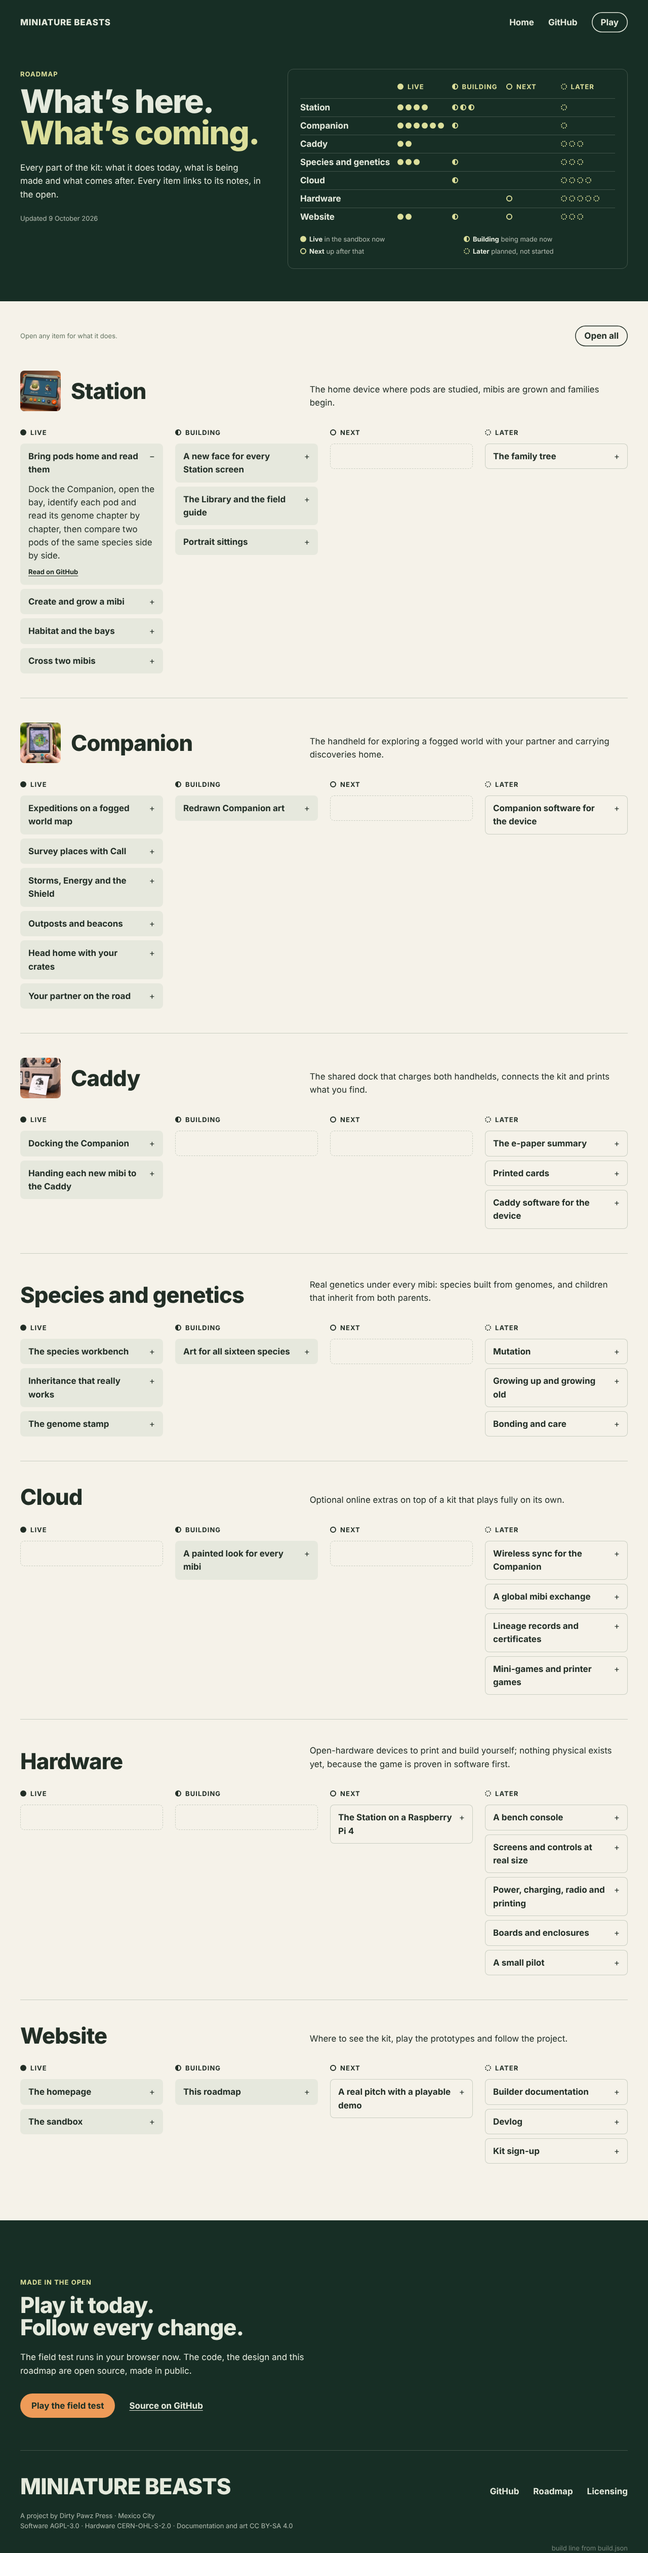
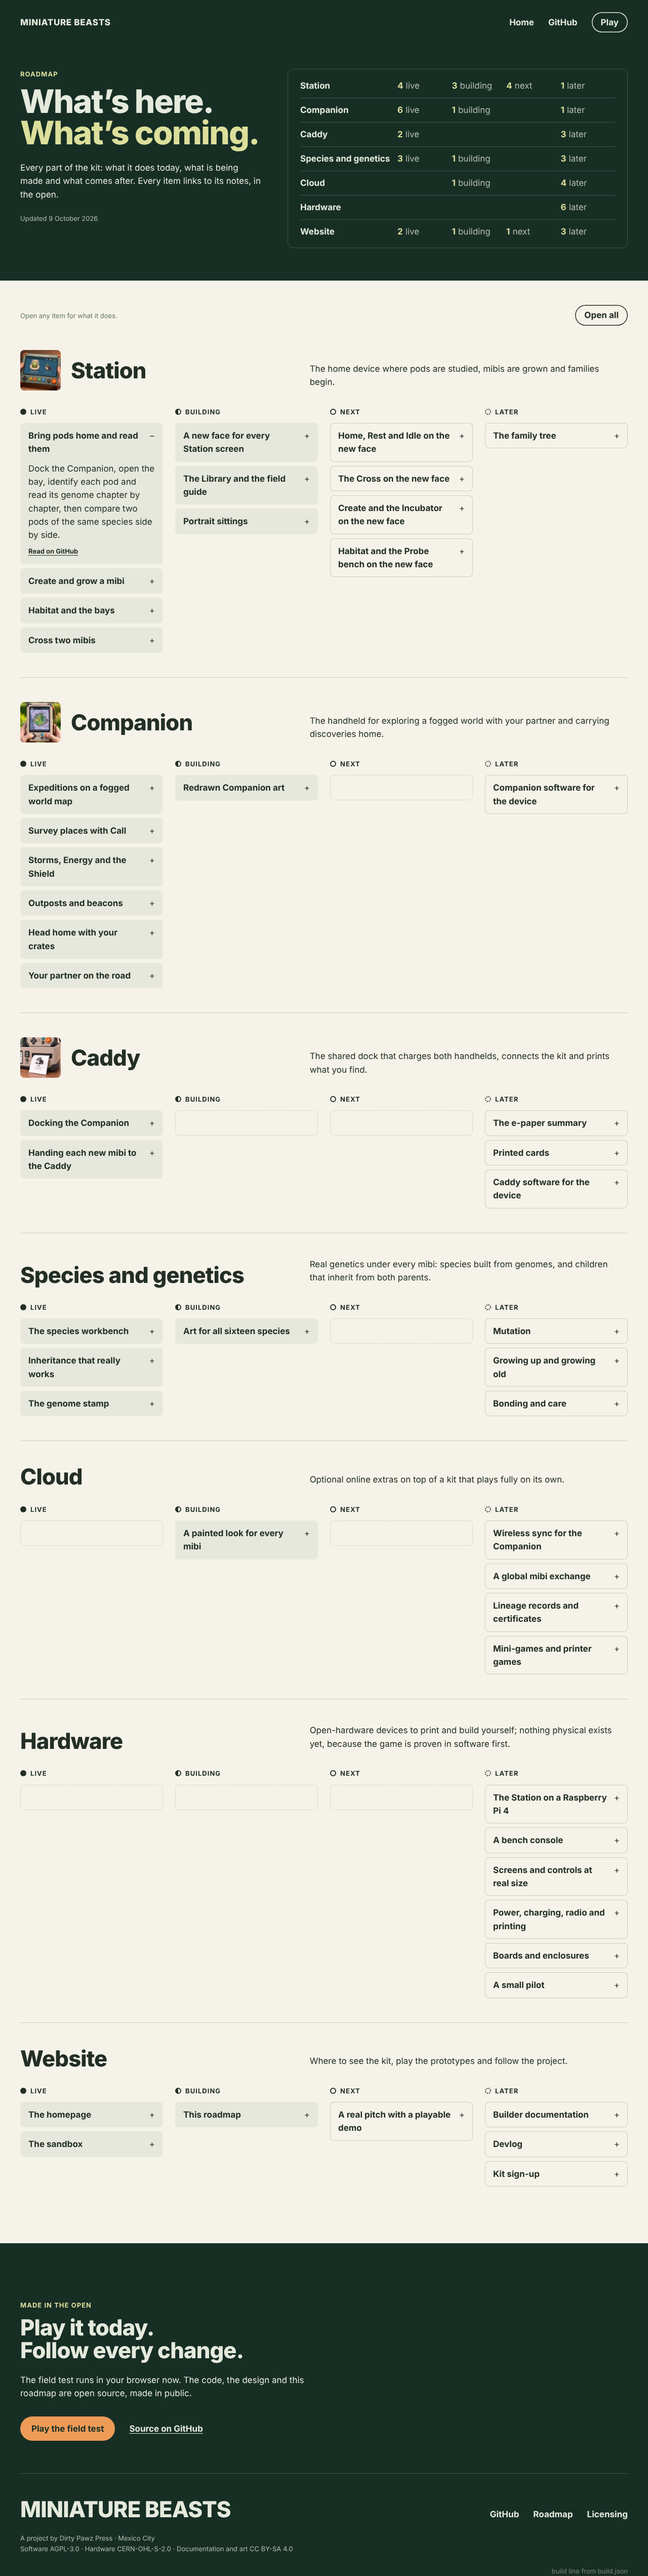
Roadmap page: the glance says each count and its stage in words ("4 live") with no dots and no legend, the Station's Next lane filled from the LVGL plan (Home, Rest and Idle; the Cross; Create and the Incubator; Habitat and the Probe bench), the Pi item moved to Later, wireframes re-rendered at 1x

diff --git a/design/proposals/roadmap-page.md b/design/proposals/roadmap-page.md
@@ -1,6 +1,10 @@
 # Roadmap page: layout spec
 
-**Proposal**, 2026-10-09 12:37 (Mexico City), UI/UX designer. For a new public page
+**Proposal**, 2026-10-09 12:37 (Mexico City), UI/UX designer. **Revised**
+2026-10-09 13:08: the owner passed the structure ("the roadmap is ok") and
+failed the summary table ("i do not know what each circle in each row
+means"); the glance is redesigned to read with no key (§4, The glance), and the
+Station's Next lane is filled from `lvgl-switch.md` §3. For a new public page
 at `website/roadmap/index.html`, served at `/roadmap/`. It renders from
 `website/roadmap.json` (served at `/roadmap.json`), so the page stays current
 when the file changes. Design source: `homepage-spec.md` §3 (type, palette,
@@ -10,10 +14,11 @@ component the homepage does not have, except the status marks (§5) and the
 light variant of the ghost button (§7).
 
 Wireframes, rendered at 1× from a throwaway mock fed by the real data file
-(Liberation Sans standing in for Helvetica Neue / Arial):
+(the machine's fontconfig stand-in for Helvetica Neue, Inter, at the
+homepage sizes):
 
-- Desktop, 1280 wide: `roadmap-page/desktop-1280.png` (1280×5042)
-- Phone, 390 wide: `roadmap-page/mobile-390.png` (390×6969)
+- Desktop, 1280 wide: `roadmap-page/desktop-1280.png` (1280×5086)
+- Phone, 390 wide: `roadmap-page/mobile-390.png` (390×7201)
 
 Both show the first Station item opened, everything else folded.
 
@@ -26,8 +31,9 @@ After a minute they can open any item for one sentence and its notes on GitHub.
 
 ## 2. Hierarchy (reads first to last)
 
-1. **The glance** (dark hero, right): seven parts × four stages, one mark per
-   item. The infographic: where the weight sits shows the state of the project.
+1. **The glance** (dark hero, right): seven parts × four stages, each cell a
+   count and its stage in words ("4 live"), an empty stage a blank cell. Where
+   the words sit, and where the blanks are, shows the state of the project.
 2. **The headline** (hero, left): "What's here. / What's coming." and one line.
 3. **The board**: one row per part (module), in file order: Station, Companion,
    Caddy first, so the hardware leads; each row split into four stage lanes.
@@ -70,29 +76,69 @@ Each module is a `<section id="{module.id}">`:
 
 Stages, their mark and their card:
 
-| Status | Label | Legend line | Mark (12×12 SVG, `currentColor`) | Card |
+| Status | Lane label | Glance word | Mark, lane heading only (12×12 SVG, `currentColor`) | Card |
 | --- | --- | --- | --- | --- |
-| `live` | LIVE | in the sandbox now | filled circle r 6 | `--panel` fill |
-| `building` | BUILDING | being made now | ring r 5, stroke 2, left half filled | `--panel` fill |
-| `next` | NEXT | up after that | ring r 5, stroke 2 | no fill, 1 px `--line` border |
-| `later` | LATER | planned, not started | ring r 5, stroke 2, dasharray 2 1.93 | no fill, 1 px `--line` border |
+| `live` | LIVE | live | filled circle r 6 | `--panel` fill |
+| `building` | BUILDING | building | ring r 5, stroke 2, left half filled | `--panel` fill |
+| `next` | NEXT | next | ring r 5, stroke 2 | no fill, 1 px `--line` border |
+| `later` | LATER | later | ring r 5, stroke 2, dasharray 2 1.93 | no fill, 1 px `--line` border |
 
 Solid on the left, outline on the right: what exists is filled, what is
-planned is drawn. Marks are `--forest` on paper, `--lime` on forest. Status is
-never carried by colour alone: shape, lane position and the lane label all say
-it. An unknown `status` is skipped (and logged to the console).
+planned is drawn. Marks are `--forest` on paper and appear only beside their
+own lane label, never alone. Status is never carried by colour alone: shape,
+lane position and the lane label all say it. An unknown `status` is skipped (and logged to the console).
 
 ### The glance panel
 
-A `<table>` in a panel with 1 px `rgb(229 234 221 / .2)` border, radius 12,
-padding 24 (16 on phone). Header row: the four marks with their labels (lime,
-eyebrow style); on phone the labels are visually hidden and only the marks show.
-One row per module, 36 px tall (40 on phone), 1 px rule at the same .2 alpha
-between rows; the row header is the module name (Body 700; Caption 700 on
-phone) linking to `#{module.id}`. Each cell holds one mark per item (12 px, gap
-4; on phone 7 px, gap 2), `aria-hidden`, plus visually hidden text such as
-"4 live". Under it, the legend: four lines "mark **Label** definition" in
-Caption, two columns (one on phone).
+**Why it changed.** The first version put one shape-coded dot per item in each
+cell (filled, half, ring, dotted) with a four-line legend under the table. The
+owner, the first reader it was for, could not say what the dots meant: a key
+that has to be learnt before the table reads is the failure. The glance must
+say itself to a first-time visitor in one look, with no key.
+
+**The choice: the count and the stage in words in every cell** ("4 live",
+"3 building", "4 next", "1 later"), against two alternatives:
+
+- *A stacked bar per part with labelled segments.* It keeps the weight as a
+  picture, but on the phone the bar has 230 px and Station's twelve items give
+  a one-item segment about 19 px wide, too narrow for "1 later" at Caption size,
+  so the labels would move to a key again. Rejected.
+- *The item titles.* Self-explaining, but 50 titles is the board again in small
+  type, and the hero stops being a glance. Rejected.
+- *Count and word* reads as a phrase in every cell, so each row is a sentence
+  ("Station: 4 live, 3 building, 4 next, 1 later"). The four columns stay in the
+  board's lane order, Live · Building · Next · Later, and an empty stage is a
+  blank cell, so the weight still shows as a shape: Companion's words sit left,
+  Hardware's sit only far right. Chosen.
+
+There is no header row and no legend: every cell names its own stage. The
+lane marks stay on the board, where each sits beside its label.
+
+**Geometry and type.** A `<table>` in a panel with 1 px `rgb(229 234 221 /
+.2)` border, radius 12, padding 8 24 (4 16 on phone). One row per module, in
+file order, 1 px rule at the same .2 alpha between rows (none above the first
+or below the last). The row header is the module name (Body 700; Caption 700,
+line-height 1.3 on phone) linking to `#{module.id}`. Each non-empty cell is one
+`<span class="n">`: the count in Body 700 `--lime`, then the stage word in
+lower case, `--on-dark` 75 %.
+
+| | Desktop (1280) | Phone (390) |
+| --- | --- | --- |
+| Panel | 568, 136, 672, 354 | 16, 410, 358, 402 |
+| Row | 48 tall | 56 tall |
+| Name column | 192 | 96 |
+| Stage column | 107.5 | 57 |
+| Cell | count and word on one line, 0.3 em apart, Body (17 px) both | count on its own line (Body 700, 17 px), word under it (Caption, 13 px), both line-height 1.3 |
+| Widest cell | "3 building", 79.8 of 107.5 | "building", 47 px ink in 57, 10 px clear of the next column |
+
+**Empty stage.** Nothing is drawn; the cell holds a visually hidden "0 live"
+(or "0 next" and so on) so a screen reader hears every stage.
+
+**Accessibility.** The visually hidden caption stays ("How many items each
+part has in each stage"); each row is a `scope="row"` header and its cells are
+plain text, so the table reads row by row as sentences. Colour carries nothing:
+the number and the word say it; lime and `--on-dark` 75 % are 10.4:1 and 7.3:1
+on forest (§9). Nothing scrolls sideways at 390 (scroll width measured 390).
 
 ## 5. How an item reads
 
@@ -105,7 +151,7 @@ disclosure pattern:
   link "Read on GitHub", Caption 700, underlined.
 - Link target: `https://github.com/PacoCotera/miniaturebeasts/` + `tree/main/`
   when `link` ends in `/`, else `blob/main/`, + `link`. Every link in the
-  current file (27 distinct paths) resolves on `main` (checked 2026-10-09).
+  current file (28 distinct paths) resolves on `main` (checked 2026-10-09 13:08).
 - **Open all** (toolbar): opens every card; label becomes "Close all";
   `aria-pressed` follows. Not persisted.
 
@@ -119,6 +165,19 @@ and `items[]` of `title`, `status`, `text`, `link`. The page fetches
 "The roadmap did not load. Read it on GitHub." linking to `ROADMAP.md`; the same
 line sits in `<noscript>`. Text is inserted as text, never as HTML.
 
+Data revised 2026-10-09 13:08 from `lvgl-switch.md` §3 and §2.10 (public
+wording, player words only):
+
+- Station, Next (was empty): "Home, Rest and Idle on the new face"; "The Cross
+  on the new face"; "Create and the Incubator on the new face"; "Habitat and
+  the Probe bench on the new face", in milestone order.
+- Station, Building: "A new face for every Station screen" now says it starts
+  with Pods and the Library (the two milestones under way), not that Pods is
+  already drawn on it.
+- Hardware: "The Station on a Raspberry Pi 4" moves from Next to Later. The
+  plan builds the face for the Pi with every change, but running it on a Pi
+  waits for the hardware phase, after the game plays end to end.
+
 ## 7. Measured regions, desktop (1280)
 
 From the 1× render (x, y, w, h; content x 40–1240):
@@ -126,17 +185,18 @@ From the 1× render (x, y, w, h; content x 40–1240):
 | Region | Rect |
 | --- | --- |
 | Masthead | 8, 0, 1264, 88 |
-| Hero (forest) | 0, 88, 1280, 507 (padding 48 top, 64 bottom) |
+| Hero (forest) | 0, 88, 1280, 466 (padding 48 top, 64 bottom) |
 | h1 (64 px / .98, 800) | 40, 169, 480, 125 |
-| Glance panel | 568, 136, 672, 395 (name column 192, lanes 107.5) |
-| Toolbar | 40, 643, 1200, 40 (48 above) |
-| Module 1 (Station) | 0, 684, 1280, 694 (padding 48 / 48) |
-| Module head | 40, 732, 1200, 80; thumbnail 40, 732, 80, 80; h2 43.5 px |
-| Lanes | 40, 844, 1200, 486; lanes at x 40, 346, 652, 958, w 282 |
+| Glance panel | 568, 136, 672, 354 (name column 192, stages 107.5, rows 48) |
+| Toolbar | 40, 602, 1200, 40 (48 above) |
+| Module 1 (Station) | 0, 643, 1280, 694 (padding 48 / 48) |
+| Module head | 40, 691, 1200, 80; thumbnail 40, 691, 80, 80; h2 43.5 px |
+| Lanes | 40, 803, 1200, 486; lanes at x 40, 346, 652, 958, w 282 |
 | Lane heading | h 20, then 12 to cards |
 | Card, closed one line | 282 × 50; two lines 282 × 76 |
-| Card, opened (first Station item) | 40, 876, 282, 279 |
-| End block | 0, 4385, 1280, 657 (section 112 top, 64 bottom) |
+| Card, opened (first Station item) | 40, 835, 282, 279 |
+| Station's Next lane | 652, 803, 282, 337 (four cards, two lines each) |
+| End block | 0, 4429, 1280, 657 (section 112 top, 64 bottom) |
 
 The light ghost button ("Open all"): the homepage ghost with `--ink` for the
 inset 1.5 px ring and text, padding 10 18.
@@ -147,8 +207,8 @@ One column, gutter 16, content 358.
 
 - Masthead: wordmark and Play only (88 tall).
 - Hero: eyebrow, h1 at 44 px (two lines), copy, updated line, then the glance
-  full width at 16, 410, 358, 455 (name column 88, lanes 59, labels hidden in
-  the header, legend in one column). Hero is 825 tall.
+  full width at 16, 410, 358, 402 (name column 96, stages 57, rows 56; count
+  over word, §4). Hero is 772 tall.
 - Toolbar: 40 top padding; the caption wraps at 20ch beside the button.
 - Module: padding 40 / 40; head stacked, gap 12: thumbnail 56×56 + 16 + h2 at
   32 px, then `oneLine`; Station head 124 tall.
@@ -163,8 +223,9 @@ One column, gutter 16, content 358.
 - Items are native `<details>`/`<summary>`: keyboard and screen reader state
   come free. "Open all" is a `<button>` with `aria-pressed`.
 - The glance is a real table with a visually hidden caption ("How many items
-  each part has in each stage"), `scope` on headers and text counts per cell;
-  the marks are `aria-hidden`.
+  each part has in each stage"), `scope="row"` on the part names and the count
+  and stage word as visible text in each cell (hidden "0 …" in empty ones). It
+  has no marks and no legend.
 - Status never by colour alone (§4). Contrast, measured from the tokens: ink on
   paper 12.6:1, ink on panel 11.4:1, muted on paper 4.6:1, lime on forest
   10.4:1, `--on-dark` 75 % on forest 7.3:1, forest on orange 6.5:1.
@@ -177,6 +238,10 @@ One column, gutter 16, content 358.
 - No motion.
 
 ## 10. Owner decisions (structure only)
+
+**Passed** (owner, 2026-10-09): "the roadmap is ok." The structure below stands;
+the glance's dots failed and are replaced (§4), which is a wording and layout
+fix inside this spec, not a new structure question.
 
 1. The four stages as lanes inside each module row (this spec), against one
    board per stage.
